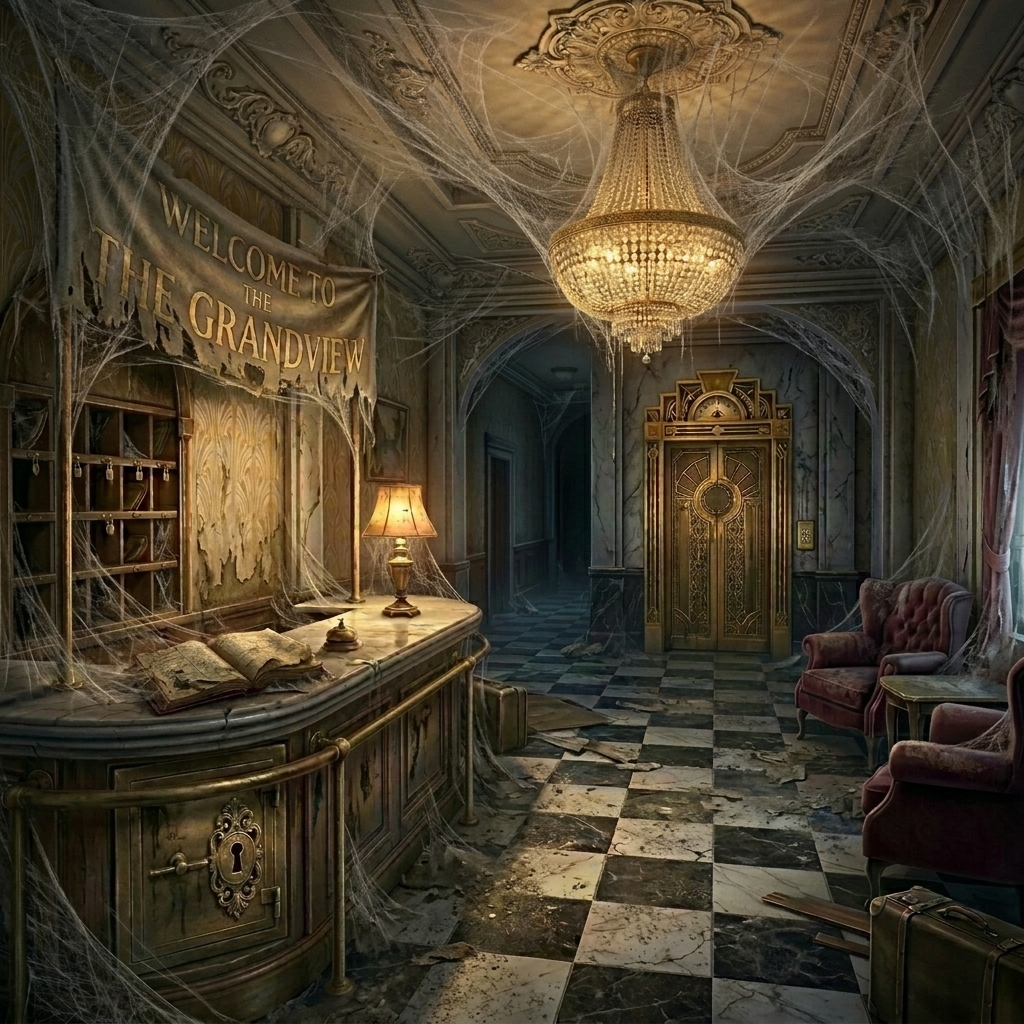
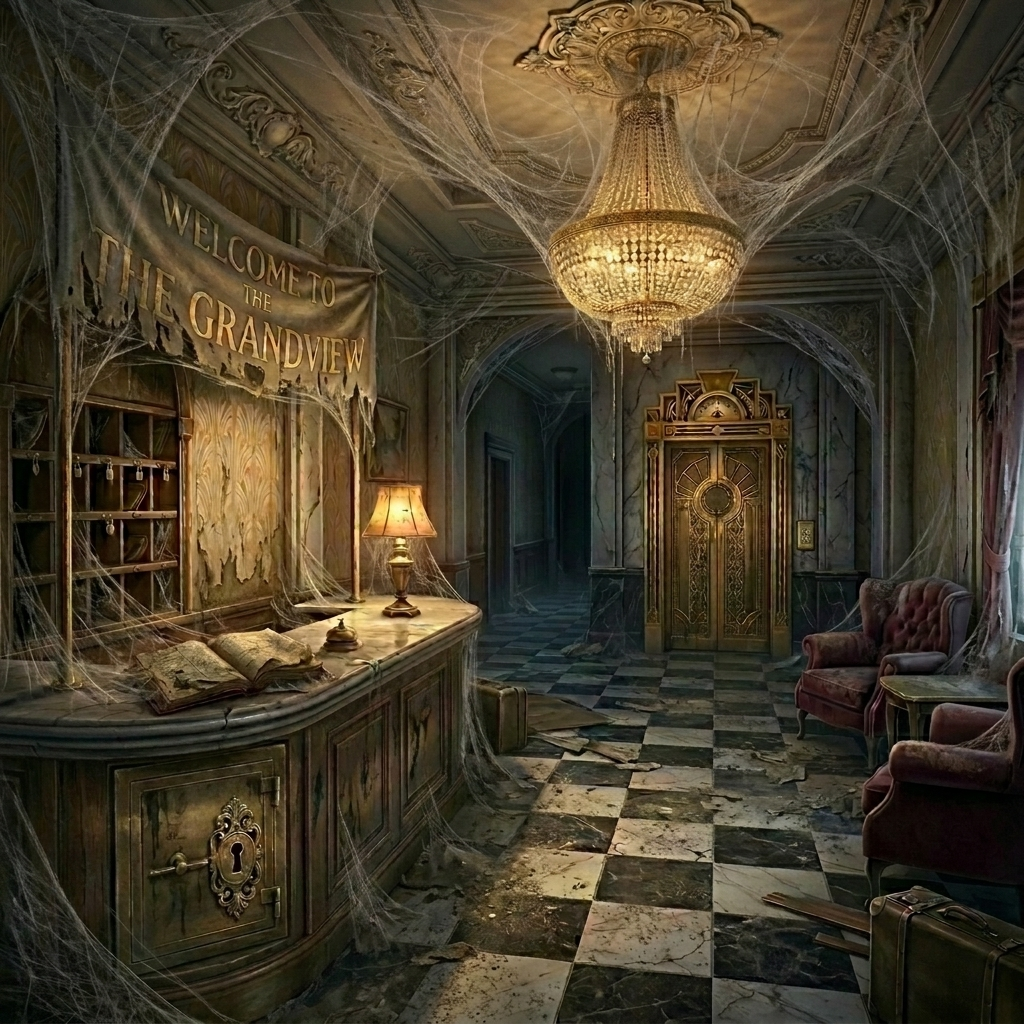
Integrated AdManager, modularized UI, and completed Room 1 consistency logic (Safe & Elevator states)

diff --git a/game/js/rooms/Room01.js b/game/js/rooms/Room01.js
@@ -12,6 +12,7 @@ class Room01 extends BaseRoom {
       brassKeyFound: false,
       safeOpened: false,
       noteFound: false,
+      elevatorOpen: false,
       escaped: false
     };
 
@@ -64,6 +65,10 @@ class Room01 extends BaseRoom {
     SpriteManager.addSprite('main', {
       id: 'elevator', x: 620, y: 380, w: 220, h: 280,
       onClick: async () => {
+        if (this.state.elevatorOpen) {
+          Engine.completeRoom();
+          return;
+        }
         await Engine.switchScene('zoom_elevator', 'assets/rooms/room_01/zoom_elevator.png');
       }
     });
@@ -133,6 +138,8 @@ class Room01 extends BaseRoom {
         }, 'paper_pickup');
         
         await SpriteManager.setScene('zoom_safe', 'assets/rooms/room_01/zoom_safe_open.png');
+        // Update main background to empty safe
+        SpriteManager.scenes['main'].background.src = 'assets/rooms/room_01/background_safe_empty.png';
         SpriteManager.updateSprite('zoom_safe', 'safe_note_item', { visible: false });
       }
     });
@@ -148,6 +155,8 @@ class Room01 extends BaseRoom {
           Inventory.removeItem('brass_key');
           Audio.playSFX('door_open');
           await SpriteManager.setScene('zoom_safe', 'assets/rooms/room_01/zoom_safe_with_note.png');
+          // Update main background to open safe (with note)
+          SpriteManager.scenes['main'].background.src = 'assets/rooms/room_01/background_safe_open.png';
           SpriteManager.updateSprite('zoom_safe', 'safe_note_item', { visible: true });
           Dialog.showFeedback(I18n.currentLang === 'zh' ? '保险箱已打开' : 'Safe opened');
         } else {
@@ -169,14 +178,19 @@ class Room01 extends BaseRoom {
 
     this.keypad = new KeypadPuzzle({
       targetCode: '3142',
-      onSuccess: () => {
+      onSuccess: async () => {
+        this.state.elevatorOpen = true;
         Audio.playSFX('door_open');
         this.keypad.hide();
-        Dialog.showStory({
-          en: "The elevator dings and the doors slide open. You've escaped the lobby!",
-          zh: "电梯发出叮的一声，门缓缓打开。你成功离开了大堂！"
-        }, () => {
-          Engine.completeRoom();
+        
+        // Update both backgrounds for consistency
+        await SpriteManager.setScene('zoom_elevator', 'assets/rooms/room_01/zoom_elevator_open.png');
+        SpriteManager.scenes['main'].background.src = 'assets/rooms/room_01/background_elevator_open.png';
+        
+        // Add click handler to the open elevator in zoom view to exit
+        SpriteManager.addSprite('zoom_elevator', {
+          id: 'elevator_exit_click', x: 200, y: 200, w: 624, h: 624,
+          onClick: () => Engine.completeRoom()
         });
       },
       onFail: () => {

diff --git a/game/js/AdManager.js b/game/js/AdManager.js
@@ -1,0 +1,64 @@
+/* ============================================
+   AdManager.js — Monetization Wrapper
+   ============================================ */
+
+const AdManager = {
+  isSDKLoaded: false,
+  
+  init() {
+    console.log("AdManager: Initializing architecture...");
+    // This is where you would load the external SDK script (AdSense, CrazyGames, etc.)
+    // For now, we simulate the logic.
+    this.isSDKLoaded = true;
+  },
+
+  /**
+   * Triggers a rewarded video ad.
+   * @param {Function} onComplete - Callback if the ad was watched successfully.
+   * @param {Function} onFail - Callback if the ad was skipped or failed.
+   */
+  async showRewardedAd(onComplete, onFail) {
+    console.log("AdManager: Requesting rewarded video...");
+    
+    // Simulation: In a real SDK, this would open a full-screen video overlay
+    const simulatedWatchTime = 2000; 
+    
+    Dialog.showFeedback("Loading Video...", 1000);
+
+    setTimeout(() => {
+      // In a real implementation, the SDK provides a 'rewarded' callback
+      const success = true; // Simulating successful watch
+      
+      if (success) {
+        onComplete();
+      } else {
+        onFail();
+      }
+    }, simulatedWatchTime);
+  },
+
+  /**
+   * Triggers an Interstitial Ad (full-screen, usually between levels).
+   * @param {Function} onComplete - Callback when the ad is closed.
+   */
+  async showInterstitialAd(onComplete) {
+    console.log("AdManager: Requesting interstitial...");
+    
+    // Simulation: Interstitials are usually un-skippable for a few seconds
+    Dialog.showFeedback(I18n.currentLang === 'zh' ? '正在加载...' : 'Loading...', 1000);
+
+    setTimeout(() => {
+      onComplete();
+    }, 1500);
+  },
+
+  /**
+   * Refreshes the bottom banner ad.
+   */
+  refreshBanner() {
+    console.log("AdManager: Refreshing banner ad...");
+    // Real SDKs usually have a method like: SDK.refreshAd('ad-space-id');
+  }
+};
+
+window.AdManager = AdManager;

diff --git a/game/index.html b/game/index.html
@@ -9,6 +9,7 @@
   <link rel="stylesheet" href="css/ui.css">
   <link rel="stylesheet" href="css/puzzles.css">
   <link rel="stylesheet" href="css/rooms/room_01.css">
+  <link rel="stylesheet" href="css/ads.css">
   <link href="https://fonts.googleapis.com/css2?family=Cinzel:wght@400;700&family=Inter:wght@300;400;600&family=Orbitron:wght@400;700&family=Share+Tech+Mono&family=Noto+Sans+SC:wght@300;400;600&display=swap" rel="stylesheet">
   <link href="https://fonts.cdnfonts.com/css/seven-segment" rel="stylesheet">
 </head>
@@ -47,7 +48,13 @@
 
         <!-- === Section 4: Ad Space (1524–1920px) === -->
         <div id="ad-space">
-          <!-- Future ad integration -->
+          <div class="ad-placeholder">
+            <span class="ad-label">Advertisement</span>
+            <div class="ad-content-sim">
+              <div class="ad-brand">The Grandview Hotel</div>
+              <div class="ad-tagline">Excellence in every stay.</div>
+            </div>
+          </div>
         </div>
 
         <!-- === Overlays (positioned absolutely within the 1080×1920 container) === -->
@@ -78,7 +85,6 @@
             </div>
           </div>
         </div>
-
 
         <!-- Menu panel -->
         <div id="menu-panel" class="modal hidden">
@@ -125,6 +131,7 @@
   <script src="js/rooms/BaseRoom.js"></script>
   <script src="js/rooms/Room01.js"></script>
   <script src="js/rooms/Room02.js"></script>
+  <script src="js/AdManager.js"></script>
   <script src="js/room-loader.js"></script>
   <script src="js/engine.js"></script>
 </body>

diff --git a/game/css/ui.css b/game/css/ui.css
@@ -14,9 +14,10 @@
   justify-content: space-between;
   padding: 0 40px;
   padding-top: var(--safe-area-top);
-  background: linear-gradient(180deg, rgba(0,0,0,0.85) 0%, rgba(0,0,0,0.4) 70%, transparent 100%);
+  background: linear-gradient(180deg, rgba(0,0,0,0.85) 0%, rgba(0,0,0,0.3) 70%, transparent 100%);
   z-index: 20;
 }
+
 
 #room-title {
   font-family: var(--font-display);
@@ -120,7 +121,7 @@
   width: 1080px;
   height: 250px;
   pointer-events: auto;
-  background: rgba(0, 0, 0, 0.95);
+  background: linear-gradient(0deg, rgba(0,0,0,0.95) 0%, rgba(20,20,30,0.6) 60%, transparent 100%);
   display: flex;
   align-items: center;
   justify-content: center;
@@ -140,9 +141,10 @@
   height: 160px;
   min-width: 160px;
   min-height: 160px;
-  border: 3px solid #4a3a6a;
+  border: 3px solid rgba(201, 168, 76, 0.4); /* Stronger gold border */
   border-radius: 24px;
-  background: linear-gradient(135deg, #2a224a 0%, #150f22 100%);
+  background: linear-gradient(135deg, #2a2a3a 0%, #1a1a25 100%);
+  box-shadow: 0 8px 32px rgba(0,0,0,0.8), inset 0 0 15px rgba(201, 168, 76, 0.1);
   display: flex;
   align-items: center;
   justify-content: center;
@@ -167,8 +169,8 @@
 }
 
 .inv-slot.empty {
-  background: rgba(255, 255, 255, 0.02);
-  border: 1px dashed rgba(180, 150, 90, 0.1);
+  background: rgba(255, 255, 255, 0.05);
+  border: 2px dashed rgba(201, 168, 76, 0.2);
   box-shadow: none;
 }
 

diff --git a/game/js/hint-system.js b/game/js/hint-system.js
@@ -66,21 +66,26 @@ const HintSystem = {
   },
 
   watchAdForHint() {
-    // Placeholder: simulate watching an ad (2 second delay)
     const watchBtn = document.getElementById('hint-watch-ad');
-    watchBtn.textContent = I18n.currentLang === 'zh' ? '加载广告...' : 'Loading ad...';
     watchBtn.disabled = true;
 
-    setTimeout(() => {
-      const puzzle = Engine.getCurrentPuzzle();
-      if (!puzzle) return;
-
-      const puzzleName = I18n.t(puzzle.puzzle_name);
-      const tier = this.getTierRevealed(puzzleName);
-      this.hintsRevealed[puzzleName] = tier + 1;
-
-      watchBtn.disabled = false;
-      this.showHintModal(); // Refresh to show the revealed hint
-    }, 1000);
+    AdManager.showRewardedAd(
+      () => {
+        // Success: Award the hint
+        const puzzle = Engine.getCurrentPuzzle();
+        if (puzzle) {
+          const puzzleName = I18n.t(puzzle.puzzle_name);
+          const tier = this.getTierRevealed(puzzleName);
+          this.hintsRevealed[puzzleName] = tier + 1;
+        }
+        watchBtn.disabled = false;
+        this.showHintModal();
+      },
+      () => {
+        // Fail/Skip: No hint
+        watchBtn.disabled = false;
+        Dialog.showFeedback(I18n.currentLang === 'zh' ? '广告未看完' : 'Ad not finished', 2000);
+      }
+    );
   }
 };

diff --git a/game/css/ads.css b/game/css/ads.css
@@ -1,0 +1,53 @@
+/* ============================================
+   AD BANNER INTEGRATION
+   ============================================ */
+
+#ad-space {
+  display: flex;
+  align-items: center;
+  justify-content: center;
+  background: linear-gradient(135deg, #1a1525 0%, #0a0a0f 100%);
+  border-top: 2px solid var(--bg-panel-border);
+  box-shadow: inset 0 10px 30px rgba(0,0,0,0.8);
+  overflow: hidden;
+}
+
+.ad-placeholder {
+  width: 90%;
+  height: 80%;
+  display: flex;
+  align-items: center;
+  justify-content: center;
+  border: 2px dashed rgba(201, 168, 76, 0.2);
+  border-radius: 12px;
+  position: relative;
+}
+
+.ad-label {
+  position: absolute;
+  top: 10px;
+  left: 20px;
+  font-family: var(--font-display);
+  font-size: 18px;
+  color: var(--gold-dim);
+  text-transform: uppercase;
+  letter-spacing: 2px;
+}
+
+.ad-content-sim {
+  text-align: center;
+}
+
+.ad-brand {
+  font-family: var(--font-display);
+  font-size: 42px;
+  color: var(--gold);
+  margin-bottom: 5px;
+  letter-spacing: 4px;
+}
+
+.ad-tagline {
+  font-size: 20px;
+  color: var(--text-secondary);
+  font-style: italic;
+}

diff --git a/game/css/core.css b/game/css/core.css
@@ -38,9 +38,25 @@ html, body {
   width: 100%;
   height: 100%;
   overflow: hidden;
-  background: var(--bg-dark);
+  background-color: #1a1a24;
+  background-image: url('../assets/ui/main_bg.png');
+  background-size: cover;
+  background-position: center;
+  background-repeat: no-repeat;
+  background-attachment: fixed;
   font-family: var(--font-body);
   color: var(--text-primary);
+}
+
+#main-ui-bg {
+  position: fixed;
+  top: 0;
+  left: 0;
+  width: 100vw;
+  height: 100vh;
+  object-fit: cover;
+  z-index: -100;
+  pointer-events: none;
 }
 
 .hidden {
@@ -56,6 +72,7 @@ html, body {
   width: 100%;
   height: 100%;
   overflow: hidden;
+  background: transparent; /* Show the body background */
 }
 
 #game-canvas {
@@ -66,6 +83,7 @@ html, body {
   height: 100%;
   display: block;
   cursor: pointer;
+  background: transparent;
 }
 
 /* ============================================
@@ -90,6 +108,7 @@ html, body {
   left: 0;
   transform-origin: 0 0;
   pointer-events: none;
+  background: transparent;
 }
 
 /* ============================================

diff --git a/game/js/engine.js b/game/js/engine.js
@@ -11,6 +11,7 @@ const Engine = {
     I18n.init();
     Inventory.init();
     HintSystem.init();
+    AdManager.init();
 
     const canvas = document.getElementById('game-canvas');
     SpriteManager.init(canvas);
@@ -191,6 +192,7 @@ const Engine = {
     }
   },
 
+
   completeRoom() {
     const modal = document.getElementById('room-complete');
     const text = document.getElementById('complete-text');
@@ -200,8 +202,11 @@ const Engine = {
     modal.classList.remove('hidden');
     
     document.getElementById('btn-next-room').onclick = () => {
-      modal.classList.add('hidden');
-      Dialog.showFeedback('Level 2 Coming Soon!', 3000);
+      AdManager.showInterstitialAd(() => {
+        modal.classList.add('hidden');
+        // Logic to load room 2
+        this.loadRoom(2);
+      });
     };
   }
 };

diff --git a/game/js/sprite-manager.js b/game/js/sprite-manager.js
@@ -157,9 +157,7 @@ const SpriteManager = {
     const h = this.canvas.height / dpr;
 
     ctx.setTransform(dpr, 0, 0, dpr, 0, 0);
-
-    ctx.fillStyle = '#0a0a0f'; // Pure dark background for the frame
-    ctx.fillRect(0, 0, w, h);
+    ctx.clearRect(0, 0, w, h);
 
     const scene = this.scenes[this.currentSceneId];
     if (!scene) return;
